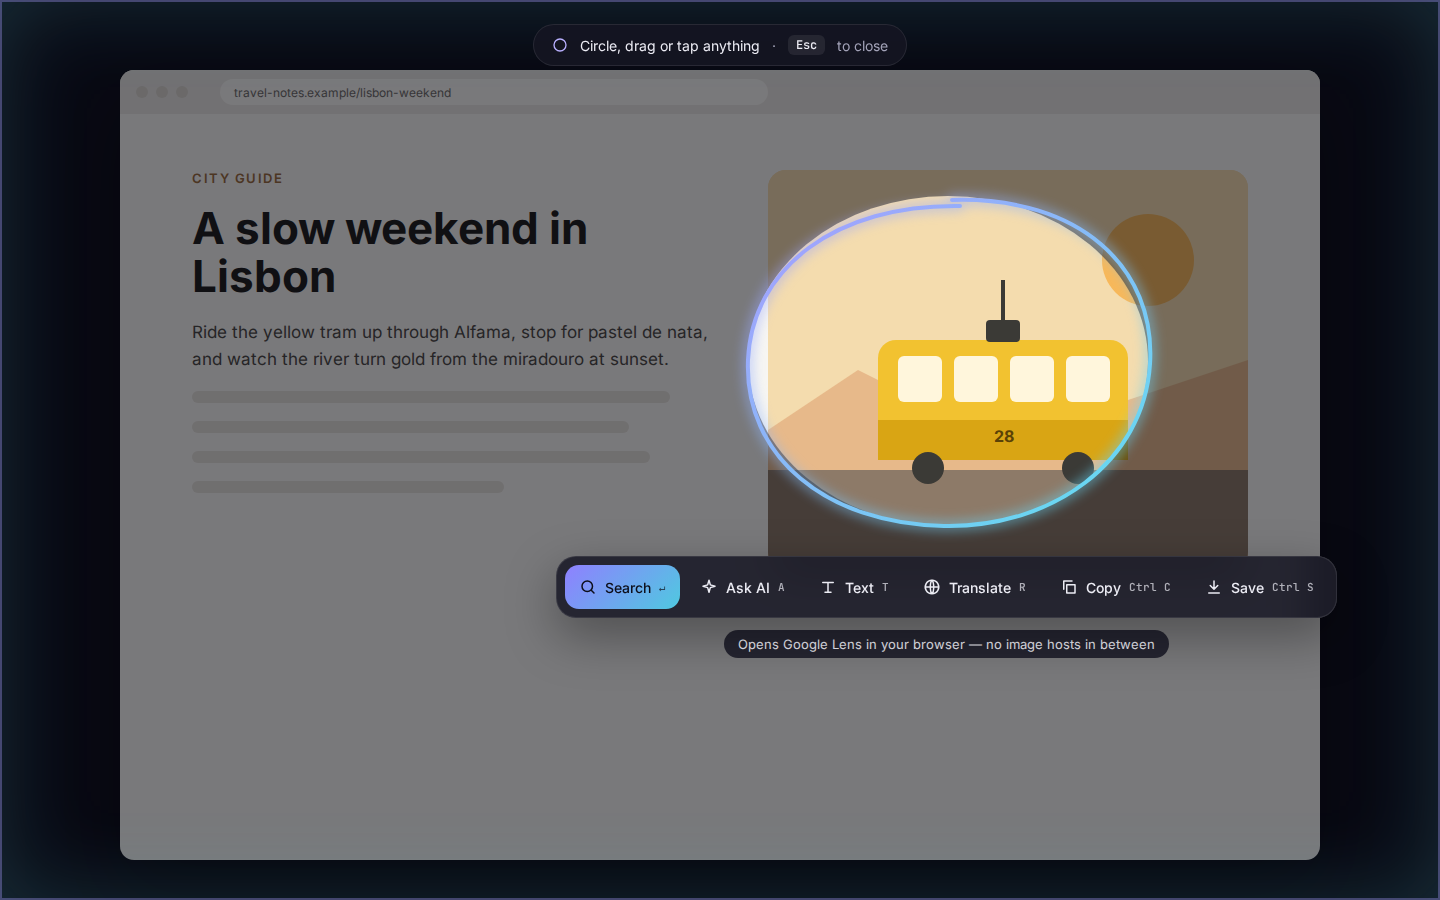
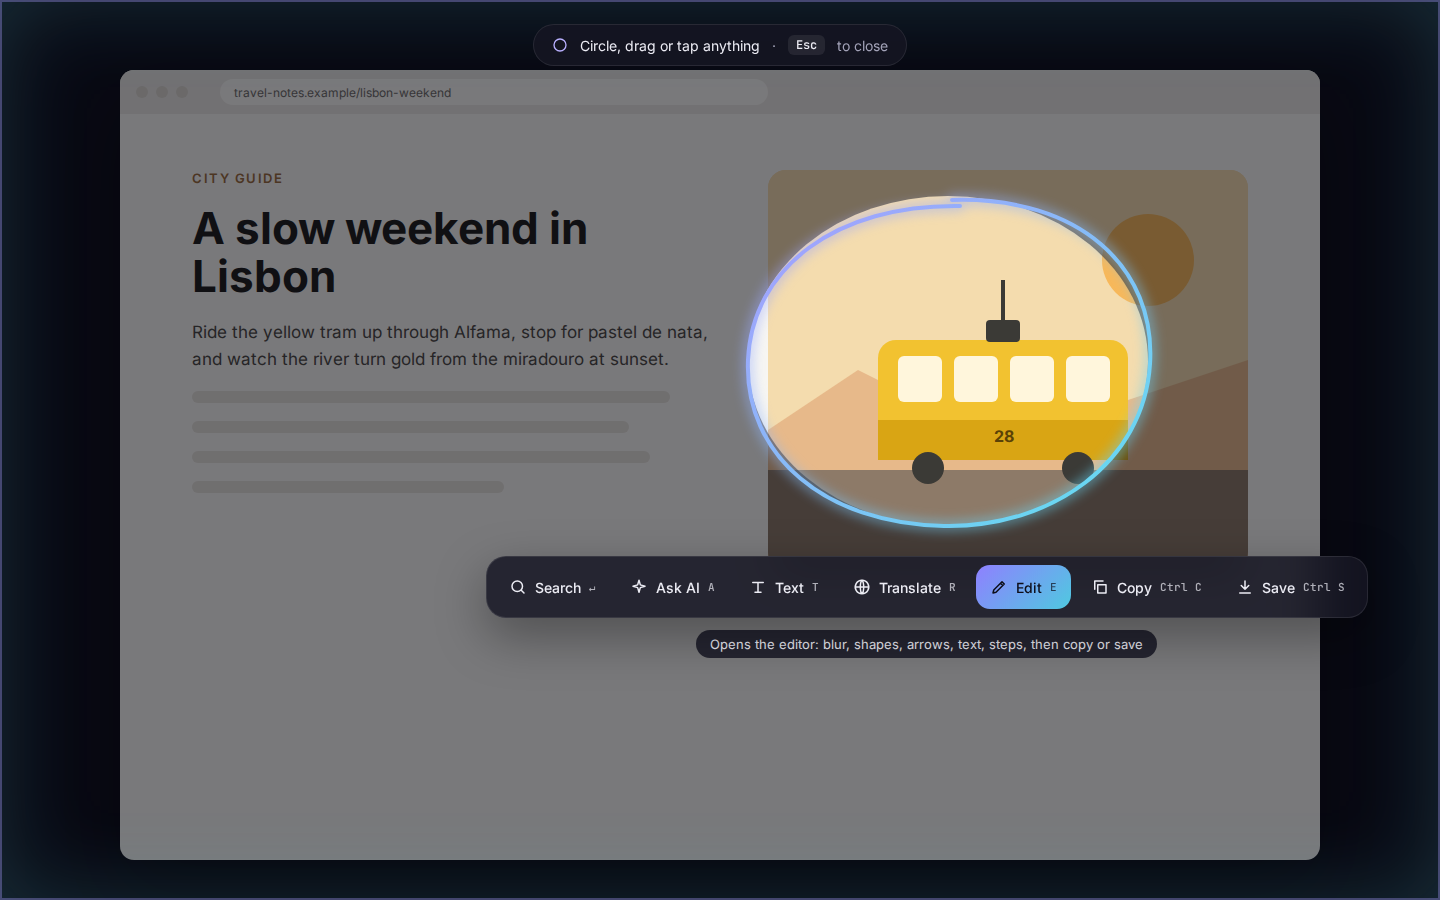
Edit action after every capture: blur, shapes, arrows, text
The action bar gains Edit (E), opening the snip editor on any selection.

Changed region(s): [[0.3125, 0.5911, 0.8125, 0.7467], [0.875, 0.6533, 0.9062, 0.6844]]

diff --git a/README.md b/README.md
@@ -37,9 +37,10 @@ images, video frames, games — and choose what to do with it.
 - **Search with Google Lens** — opens the results in your own browser. No
   third-party image hosts in between.
 - **Copy text** from anything, even images and videos, read offline.
-- **Snip and annotate** — region, window, full-screen and scrolling
-  screenshots; smart shapes, curved arrows, callouts, numbered steps,
-  spotlight, highlighter, blur and magnifier; copy, save or pin to screen.
+- **Snip and edit** — region, window, full-screen and scrolling
+  screenshots. Any capture opens in the editor: blur private details, add
+  smart shapes, curved arrows, text, callouts, numbered steps, spotlight,
+  highlighter and magnifier; then copy, save or pin it to the screen.
 - **Quick actions** — give any action its own shortcut and skip the menu
   (for example `Ctrl+Shift+T` translates the screen at once).
 - **Light, dark and system themes.**

diff --git a/AGENTS.md b/AGENTS.md
@@ -91,6 +91,9 @@ production systems.
   copy/save), rebuilt clean-room from its behaviour, never from its binary.
   Scrolling capture is in v0.1; annotation must be more modern than iTop
   (smart shapes, curved arrows, callouts, spotlight — see DESIGN.md).
+- Editor after every capture (owner, 2026-10-23): blur, shapes, arrows,
+  text etc. are reachable from any capture via the action bar's Edit (`E`),
+  not only from Snip mode.
 - Themes (owner, 2026-10-23): Light, Dark and System, from one token set.
 - Workflow (owner, 2026-10-23): planning first; execution starts only after
   the owner reviews the plan and adds rules.

diff --git a/gallery/README.md b/gallery/README.md
@@ -26,7 +26,7 @@ Click a word for its meaning in context:
 ### Copy or translate text from a selection
 ![Text panel](06-text-and-translate-selection.png)
 
-### Snip and annotate
+### Edit any capture: blur, shapes, arrows, text, steps
 ![Snip and annotate](07-snip-and-annotate.png)
 
 ### Scrolling capture
